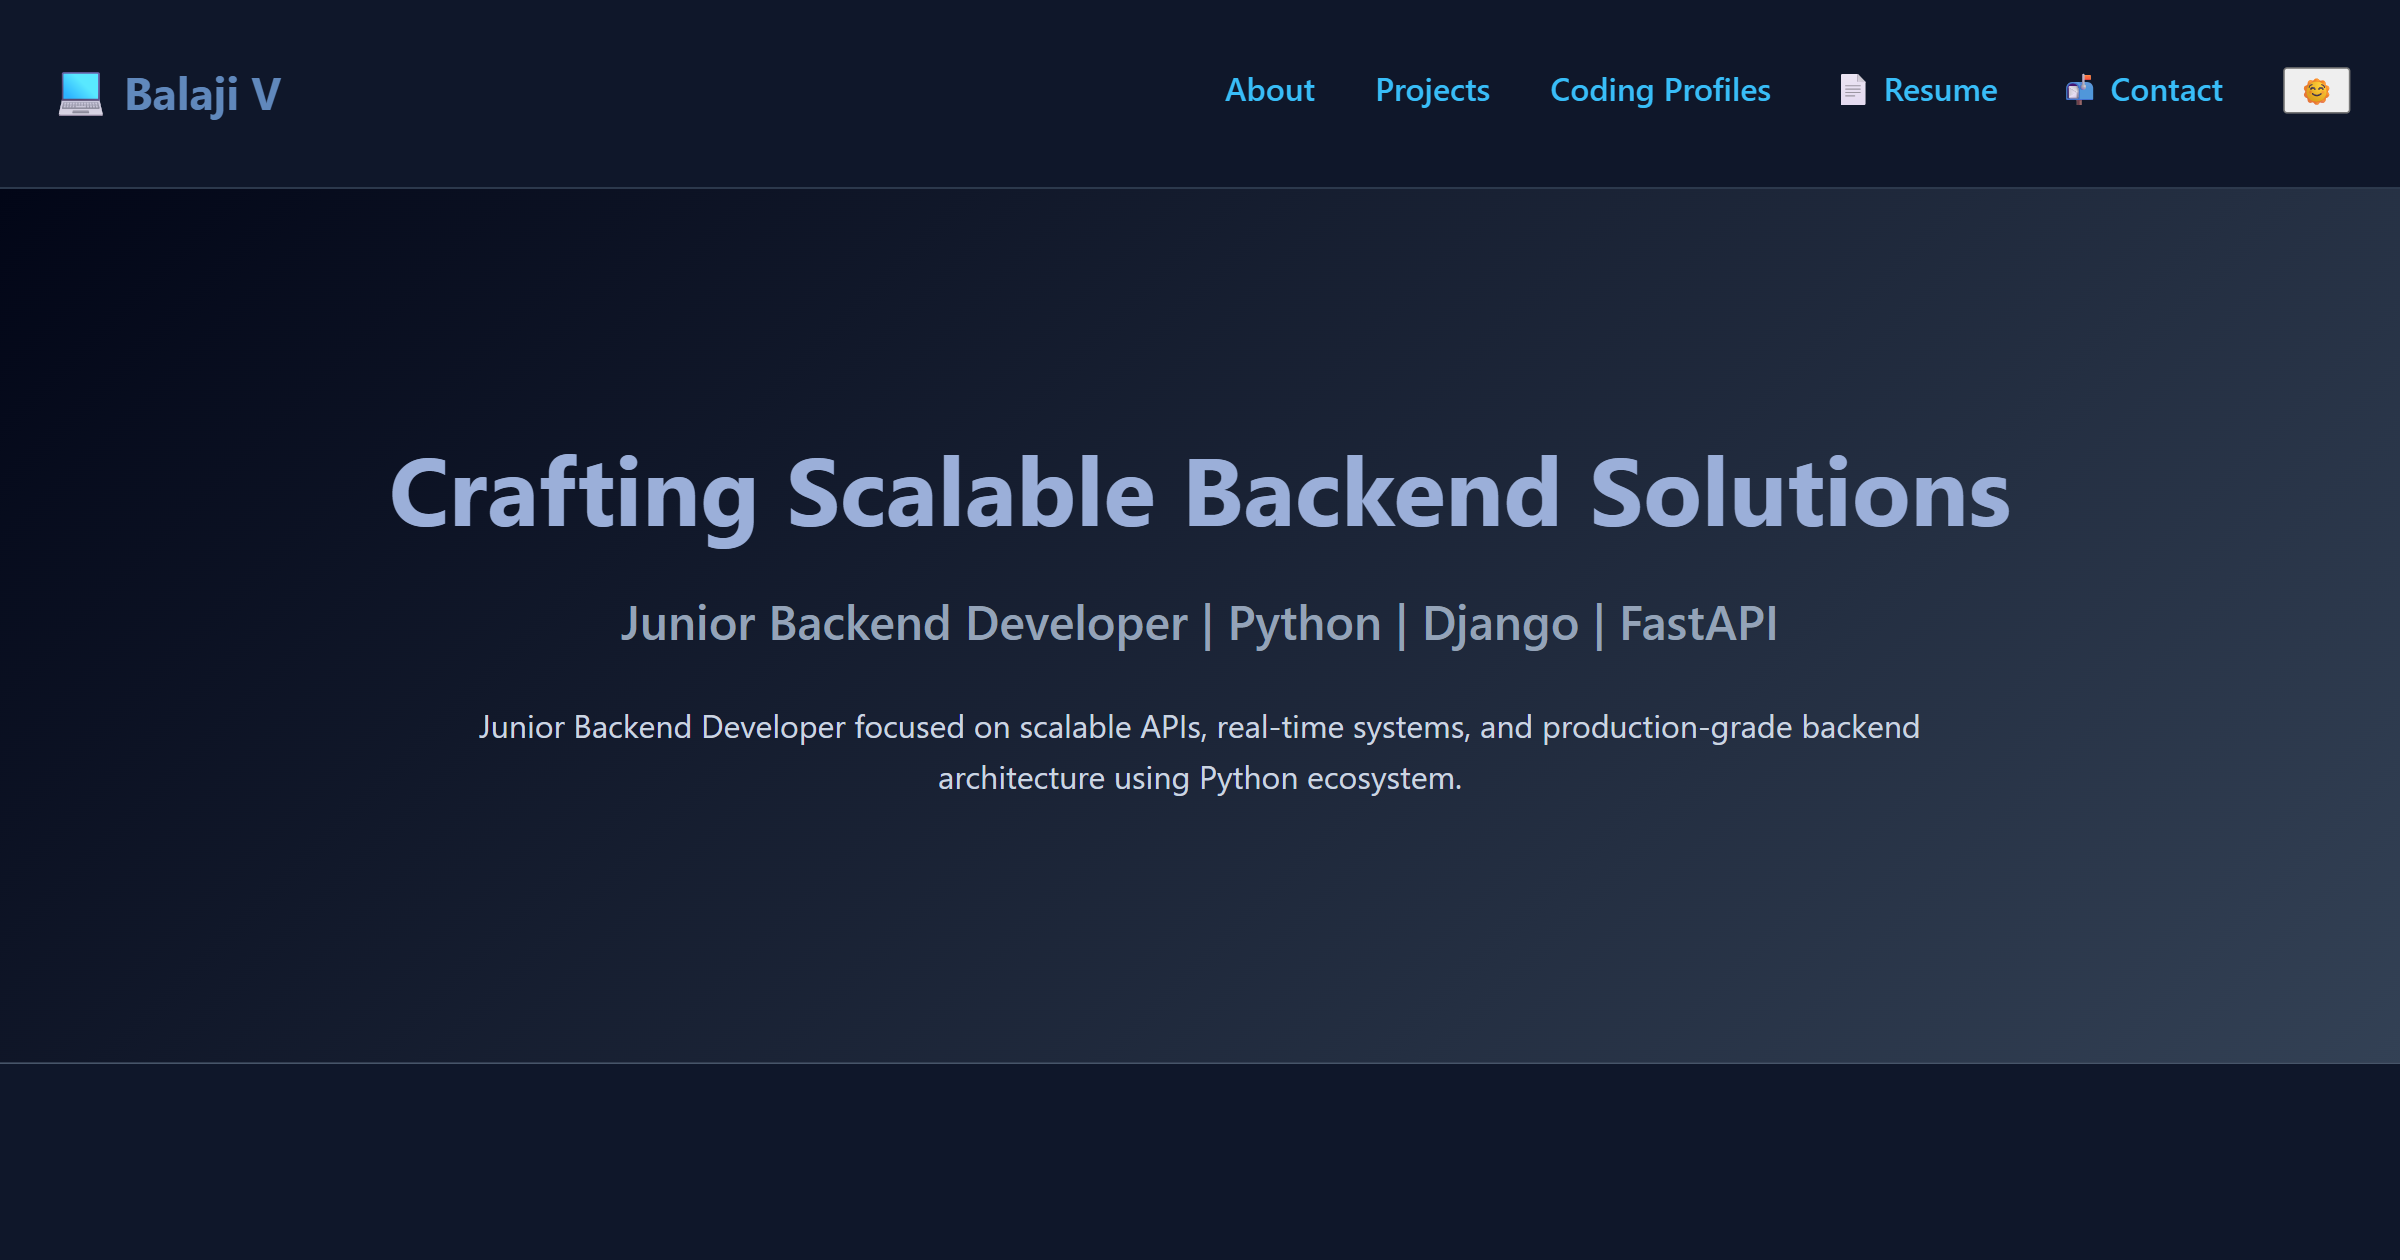
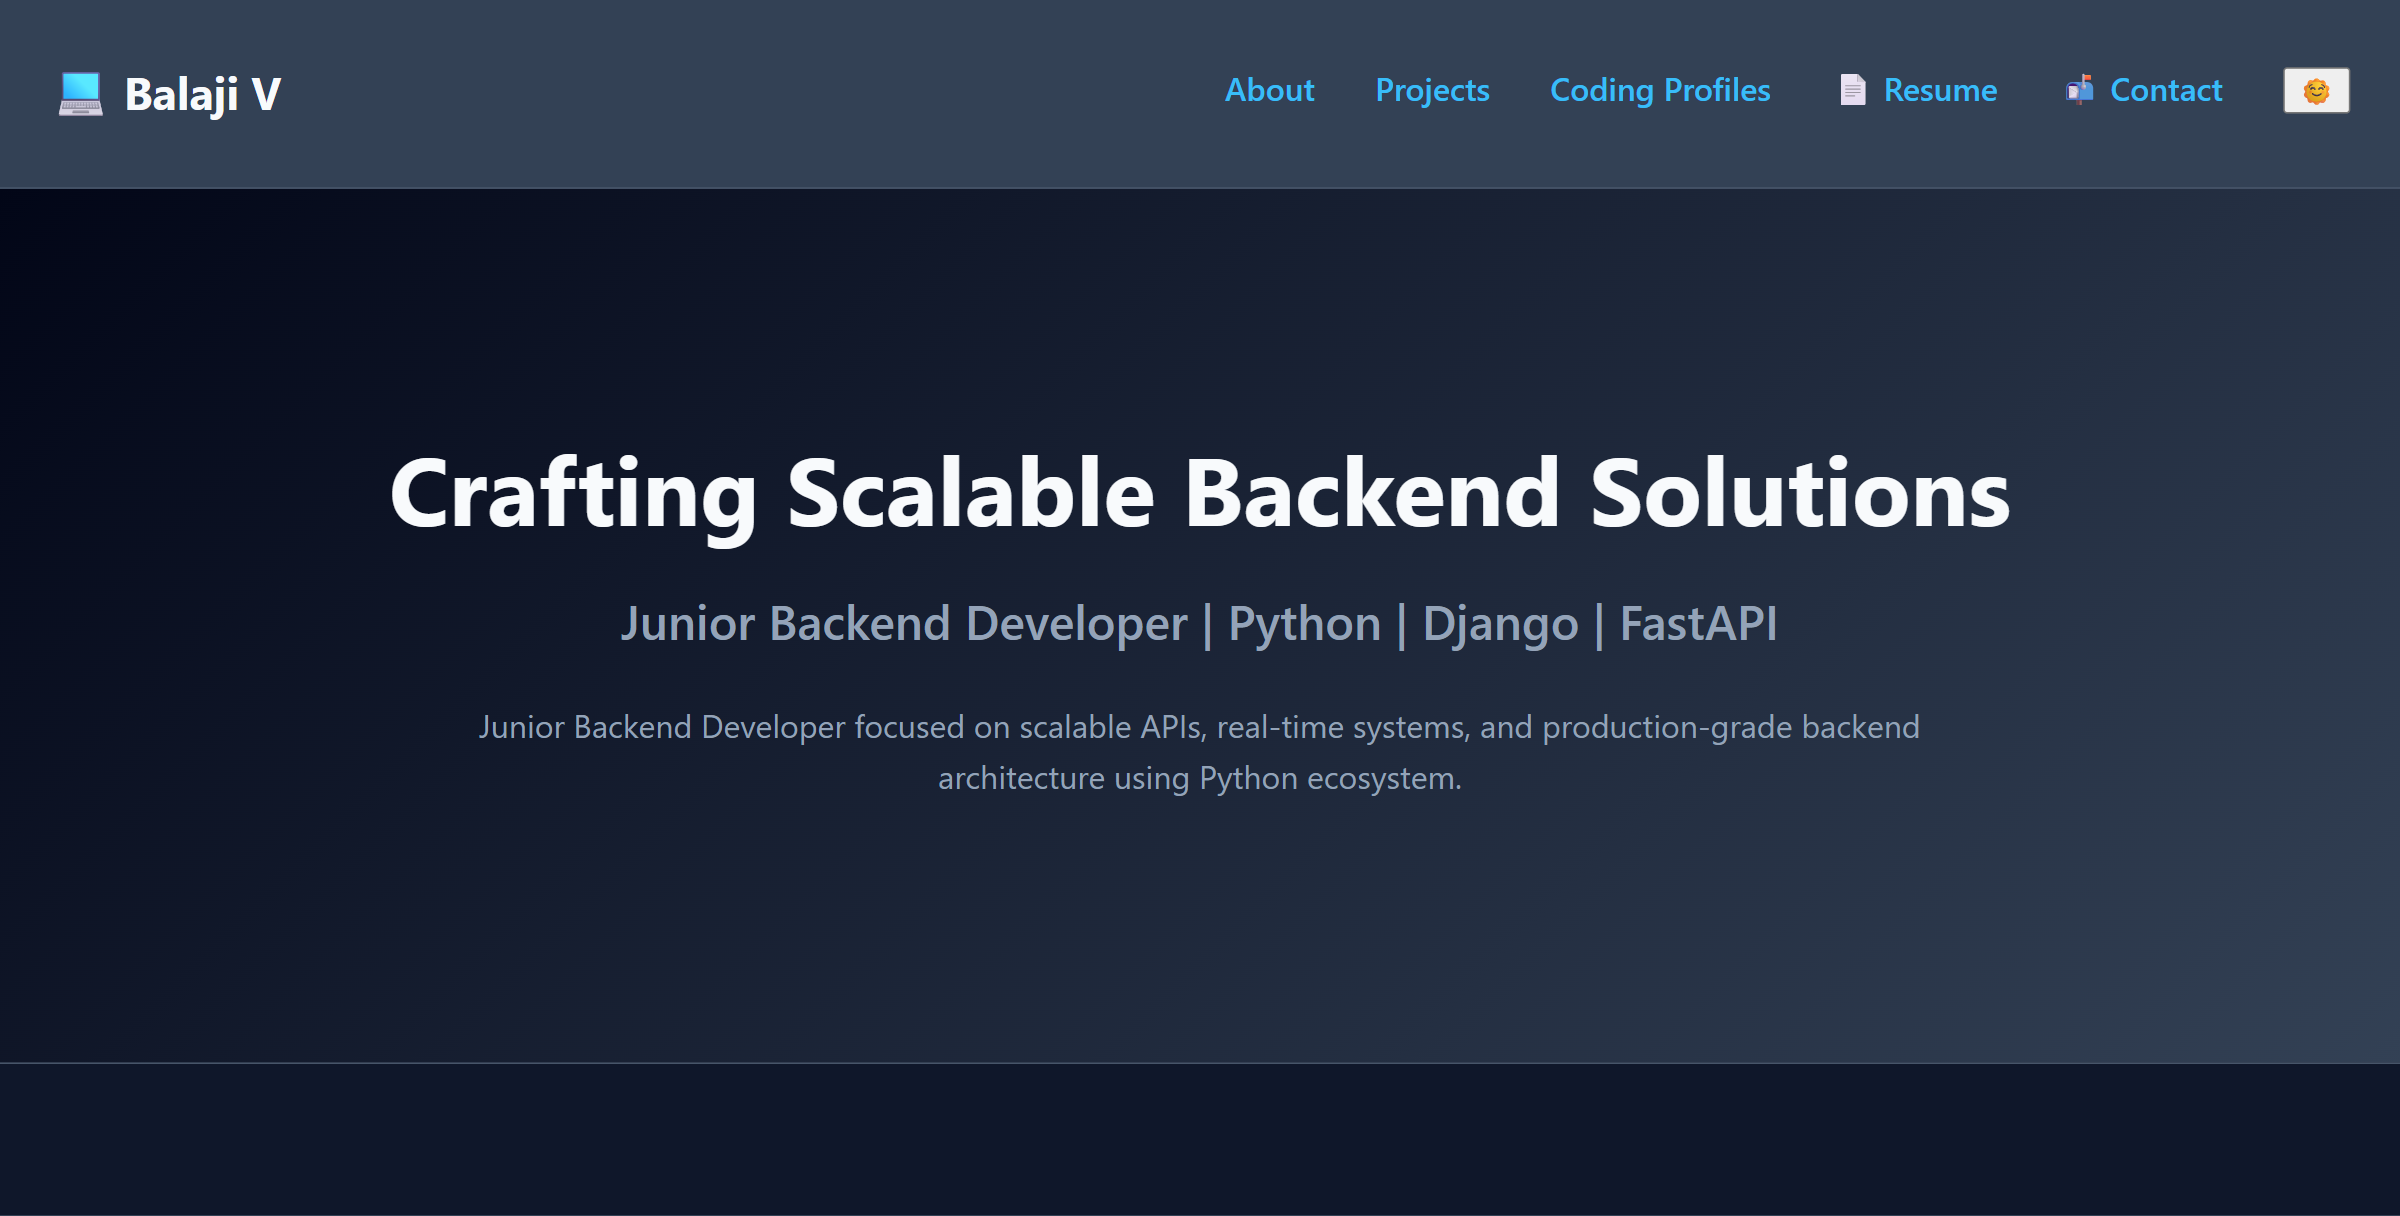
Updated Professional Portfolio, Which makes showcase every things properly

diff --git a/style.css b/style.css
@@ -2,8 +2,9 @@
     position: sticky;
     top: 0;
     z-index: 1000;
-    color:#e2e8f0;
-    border-bottom:1px solid #334155;
+    color:var(--text);
+    background: var(--nav-bg);
+    border-bottom:1px solid var(--border);
 }
 
 .site-header a {
@@ -34,25 +35,21 @@
 /* define the colors to be used in multiple places  */
 :root {
     /* default background color */
-      --bg: white; 
-    /* default alternative background color */
-      --bg-alt: #020617;
-      /* defualt card color */
-      --card: #1e293b;
-      /* default border color */
-      --border: #334155;
-      /* default text color */
-      --text:#e2e8f0;
-      /*  default muted color */
-      --muted: #94a3b8;
-      /* default acce color */
-      --accent: #38bdf8;
-      /* default accent color in dark  */
-      --accent-dark: #0ea5e9;
-      /* default maxium width color */
-      --max-width: 1100px;
-      /* add new dark mode */
-      --nav-bg:#1a1717;
+     --bg:#ffffff;
+    --bg-alt:#f8fafc;
+
+    --text:#1e293b;
+    --muted:#64748b;
+
+    --card:#ffffff;
+    --border:#cbd5e1;
+
+    --nav-bg:#ffffff;
+
+    --accent:#38bdf8;
+    --accent-dark:#0ea5e9;
+
+    --max-width:1100px;
 }
 
 .resume-menu
@@ -67,7 +64,7 @@
     left: 0;
 
     min-width: 100px;
-    background: var(--bg);
+    background: var(--card);
     box-shadow: 0 5px 20px rgba(228, 230, 231, 0.901);
 
 }
@@ -82,7 +79,7 @@
   top: 100%;
   left: 0;
   min-width: 100px;
-  background: var(--bg);
+  background: var(--card);
  box-shadow: 0 5px 20px rgba(228, 230, 231, 0.901);
 }
 
@@ -102,15 +99,12 @@
   left: 0;
 
   min-width: 175px;
-  background: white;
+  background: var(--card);
   box-shadow: 0 5px 20px rgba(228, 230, 231, 0.901);
 
 }
 .dsa-menu:hover .dropdown-dsa {
   display: block;
-}
-.dropdown-dsa {
-  background-color: #a8abb1;
 }
 
 .contact-menu:hover .dropdown-contact
@@ -128,7 +122,7 @@
   left: 0;
   font-family: 'Lucida Sans', 'Lucida Sans Regular', 'Lucida Grande', 'Lucida Sans Unicode', Geneva, Verdana, sans-serif;
   min-width:220px;
-  background: white;
+  background: var(--card);
   box-shadow: 0 5px 20px rgba(56,189,248,0.12);
 }
 .dropdown-contact a {
@@ -148,10 +142,12 @@
 .dark-theme 
 {
     --bg:#0f172a;
-    --text:#6088bc;
+    --bg-alt:#020617;
+    --text:#f8fafc;
     --card:#1e293b;
     --nav-bg:#334155;
     --border:#475569;
+    --muted:#94a3b8;
 }
 
 * { box-sizing: border-box; }
@@ -162,7 +158,8 @@ html { scroll-behavior: smooth; }
 .hero h1 {
   font-size: 3em;
   letter-spacing: normal;
-  color: #9bafd9;
+  /* light mode color */
+  color: var(--text);;
 
 }
 body {
@@ -204,7 +201,8 @@ a {
     .hero p {
       max-width: 750px;
       margin: 20px auto;
-      color: #cbd5e1;
+      /* light mode color */
+      color: var(--muted);
     }
 
     .btn-group {
@@ -371,7 +369,7 @@ a {
     width: 100%;
     flex-direction: column;
     align-items: flex-start;
-    background: #1e293b;
+    background: var(--nav-bg);
     padding: 15px;
 
   }
@@ -388,6 +386,7 @@ a {
     display: block;
     width: 100%;
     padding: 12px 0;
+    color: var(--text);
   }
 
   .dropdown-resume,

diff --git a/README.md b/README.md
@@ -22,6 +22,7 @@ This portfolio highlights work as a Backend Developer with a focus on Python, Dj
 
 - HTML5
 - CSS3
+- JavaScript
 - Responsive Web Design
 
 ## Projects Included